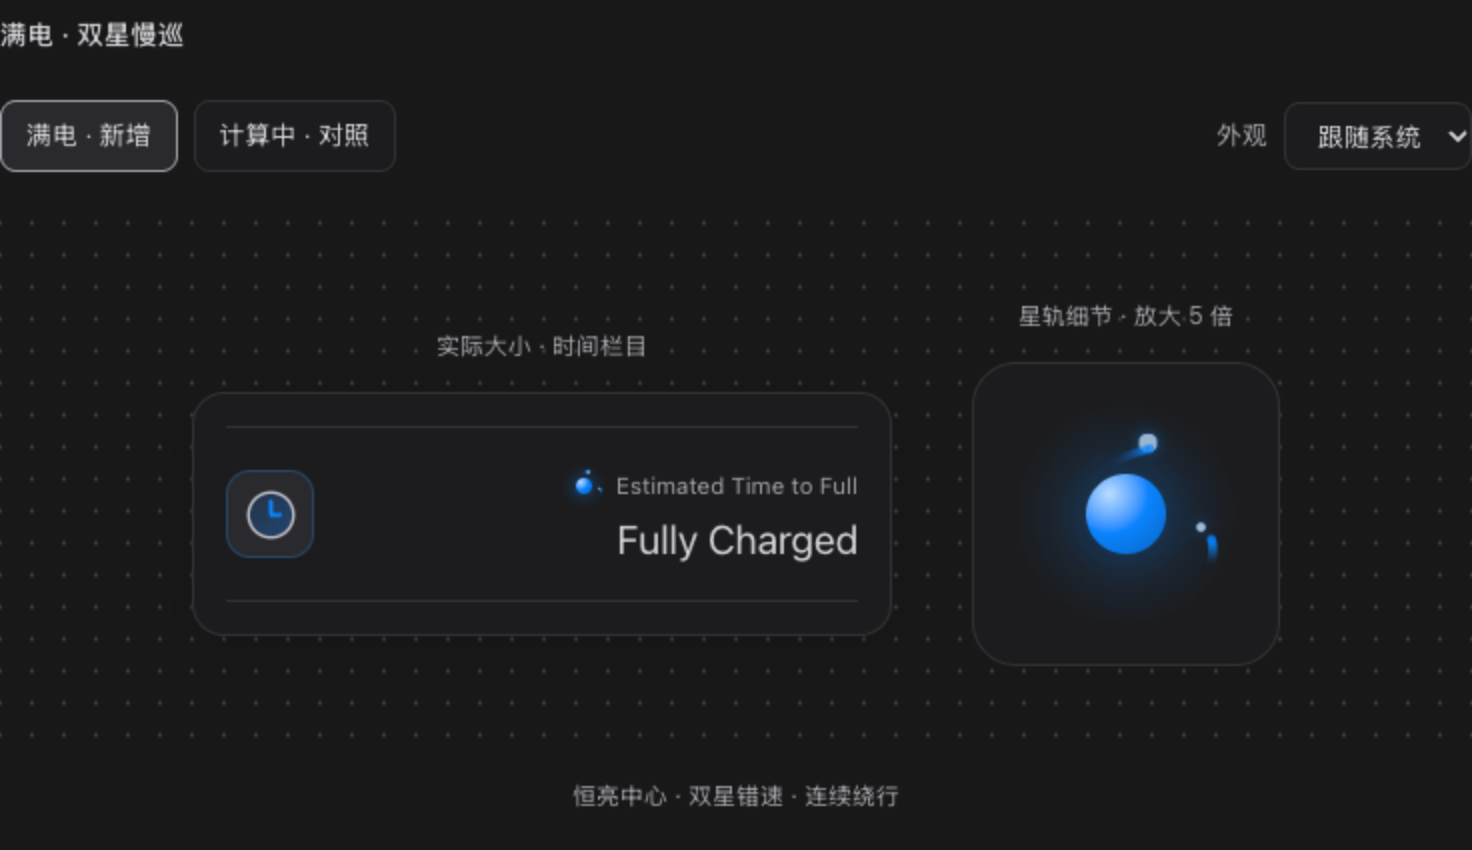
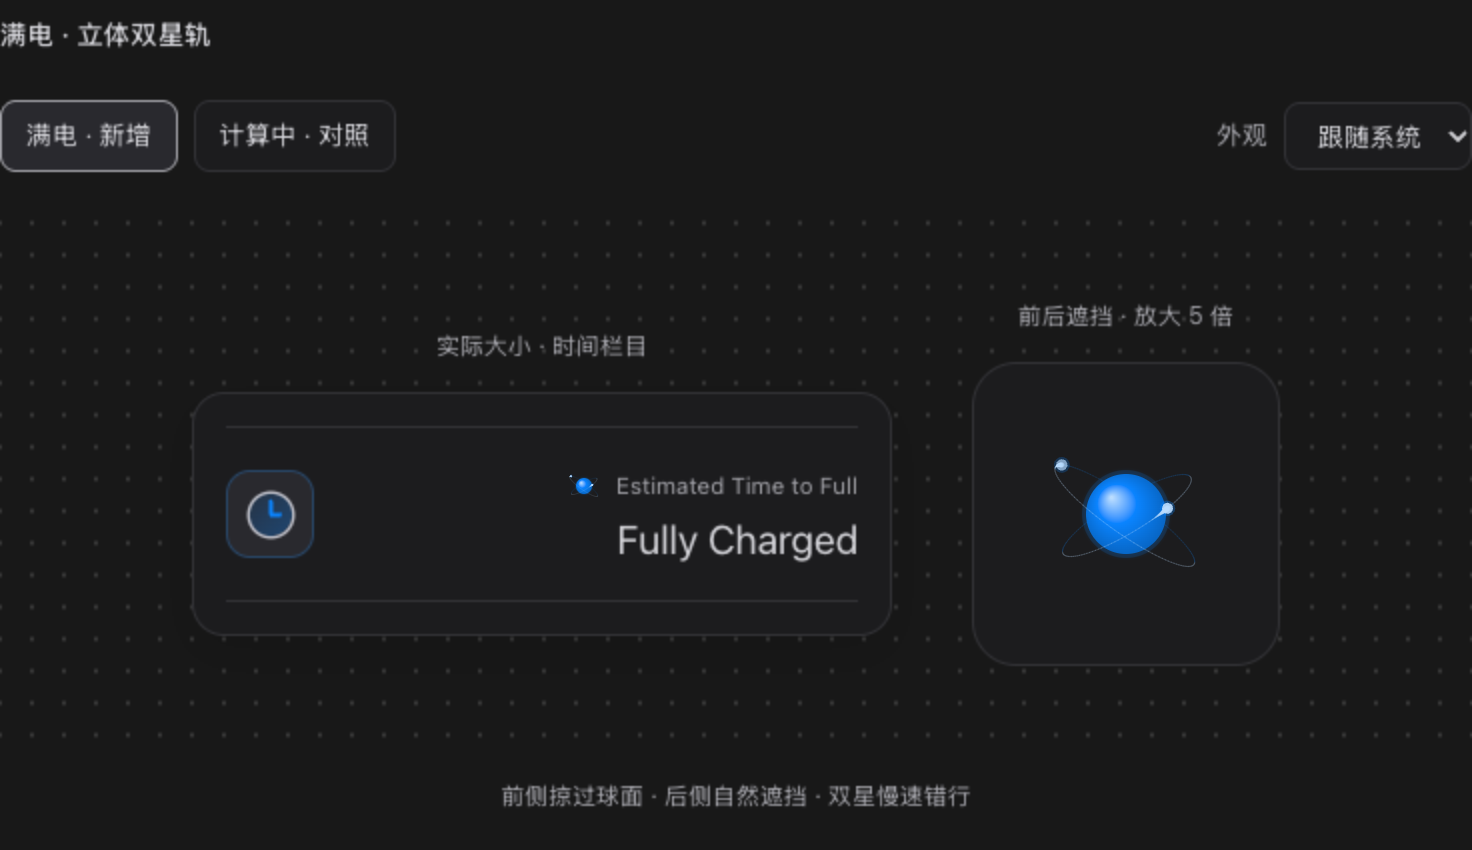
Correct full-charge preview with projected 3D orbits and sphere occlusion

diff --git a/design/battery-time-indicator/full-charge/full-charge-preview.html b/design/battery-time-indicator/full-charge/full-charge-preview.html
@@ -26,16 +26,18 @@
 #wattson-full-charge .fc-magnifier { display:grid; place-items:center; height:152px; background:var(--fc-surface); border:1px solid var(--fc-line); border-radius:22px; }
 #wattson-full-charge .fc-magnifier .fc-badge { transform:scale(5); }
 #wattson-full-charge .fc-badge { position:relative; display:inline-block; width:24px; height:24px; flex-shrink:0; isolation:isolate; }
-#wattson-full-charge .fc-halo { position:absolute; inset:1px; border-radius:50%; background:radial-gradient(circle,color-mix(in srgb,var(--fc-accent) 35%,transparent),color-mix(in srgb,var(--fc-accent) 8%,transparent) 45%,transparent 72%); z-index:0; }
-#wattson-full-charge .fc-planet { position:absolute; width:8px; height:8px; left:8px; top:8px; z-index:2; border-radius:50%; background:radial-gradient(circle at 29% 25%,var(--fc-bright),var(--fc-accent) 47%,var(--fc-deep)); }
-#wattson-full-charge .fc-particle { position:absolute; border-radius:50%; left:12px; top:12px; background:var(--fc-accent); pointer-events:none; }
-#wattson-full-charge .fc-particle[data-head] { background:var(--fc-bright); box-shadow:0 0 1.4px color-mix(in srgb,var(--fc-accent) 70%,transparent); }
+#wattson-full-charge .fc-canvas { display:block; width:24px; height:24px; }
+#wattson-full-charge .fc-color { position:absolute; width:0; height:0; overflow:hidden; }
+#wattson-full-charge .fc-color[data-color="accent"] { color:var(--fc-accent); }
+#wattson-full-charge .fc-color[data-color="bright"] { color:var(--fc-bright); }
+#wattson-full-charge .fc-color[data-color="deep"] { color:var(--fc-deep); }
 #wattson-full-charge .fc-status { font-size:12px; color:var(--fc-muted); text-align:center; margin-top:12px; min-height:36px; }
 @media(max-width:620px) { #wattson-full-charge .fc-stage { flex-direction:column; gap:26px; padding:24px 10px; } #wattson-full-charge .fc-appearance { margin-left:0; } #wattson-full-charge .fc-window { padding:12px; } #wattson-full-charge .fc-row { gap:8px; } }
 @media(pointer:coarse) { #wattson-full-charge button,#wattson-full-charge select { min-height:44px; } }
 </style>
 <div id="wattson-full-charge" data-state="full" data-palette="blue" aria-label="Wattson 满电双星轨设计稿">
-  <div class="fc-heading">满电 · 双星慢巡</div>
+  <div class="fc-heading">满电 · 立体双星轨</div>
+  <span class="fc-color" data-color="accent" aria-hidden="true"></span><span class="fc-color" data-color="bright" aria-hidden="true"></span><span class="fc-color" data-color="deep" aria-hidden="true"></span>
   <div class="fc-options">
     <button class="cursor-interaction" type="button" data-state="full" aria-pressed="true">满电 · 新增</button>
     <button class="cursor-interaction" type="button" data-state="calculating" aria-pressed="false">计算中 · 对照</button>
@@ -47,60 +49,88 @@
       <div class="fc-window"><div class="fc-row">
         <div class="fc-clock"><i data-lucide="clock-3" aria-hidden="true"></i></div>
         <div class="fc-copy">
-          <div class="fc-caption"><span class="fc-badge" aria-hidden="true"><span class="fc-halo"></span><span class="fc-planet"></span></span><span>Estimated Time to Full</span></div>
+          <div class="fc-caption"><span class="fc-badge" aria-hidden="true"><canvas class="fc-canvas"></canvas></span><span>Estimated Time to Full</span></div>
           <div class="fc-value">Fully Charged</div>
         </div>
       </div></div>
     </div>
-    <div class="fc-detail"><div class="fc-label">星轨细节 · 放大 5 倍</div><div class="fc-magnifier"><span class="fc-badge" role="img" aria-label="中心恒亮，左上和右下两颗星点沿错开的斜轨缓慢连续绕行"><span class="fc-halo"></span><span class="fc-planet"></span></span></div></div>
+    <div class="fc-detail"><div class="fc-label">前后遮挡 · 放大 5 倍</div><div class="fc-magnifier"><span class="fc-badge" role="img" aria-label="双星沿立体斜轨绕行，前侧经过球面，后侧被球体遮住"><canvas class="fc-canvas"></canvas></span></div></div>
   </div>
-  <div class="fc-status" aria-live="polite">恒亮中心 · 双星错速 · 连续绕行</div>
+  <div class="fc-status" aria-live="polite">前侧掠过球面 · 后侧自然遮挡 · 双星慢速错行</div>
 </div>
 <script>
 (() => {
   const root=document.getElementById('wattson-full-charge');
-  const ui={state:'full',appearance:'auto',palette:'blue',speed:1,drift:1};
+  const ui={state:'full',appearance:'auto',palette:'blue',speed:1,drift:1,ring:true};
   const reduced=matchMedia('(prefers-reduced-motion:reduce)');
-  const planets=[...root.querySelectorAll('.fc-planet')], halos=[...root.querySelectorAll('.fc-halo')];
-  const particles=[];
+  const scenes=[...root.querySelectorAll('.fc-canvas')].map(canvas=>({canvas,ctx:canvas.getContext('2d')}));
+  let colors={};
   let time=0,last=null,raf=0,inView=true;
-  root.querySelectorAll('.fc-badge').forEach(badge=>{
-    for(let orbit=0;orbit<2;orbit++) for(let i=0;i<12;i++) {
-      const node=document.createElement('span'); node.className='fc-particle';
-      if(i===0)node.dataset.head=String(orbit);
-      const diameter=i===0?(orbit===0?1.65:1.4):Math.max(.24,1.1-i*.075);
-      node.style.width=node.style.height=diameter+'px'; node.style.margin=(-diameter/2)+'px';
-      badge.appendChild(node);particles.push({node,orbit,i});
-    }
-  });
-  function position(t,orbit,lag){
+  function orbitAngle(t,orbit){
     const direction=orbit===0?1:-1,period=orbit===0?8:10.6,omega=2*Math.PI/period;
     const wave=orbit===0?.29:.21,offset=orbit===0?.4:2.1;
-    const phase=orbit===0?Math.PI+1.05:.23;
-    const angle=phase+direction*(omega*t+.06*ui.drift*omega/wave*(Math.sin(wave*t+offset)-Math.sin(offset))-lag);
-    const tilt=((orbit===0?-34:30)+2*ui.drift*Math.sin(t*.17+orbit*2.2))*Math.PI/180;
-    const radius=(orbit===0?10.1:9.0)*(1+.012*ui.drift*Math.sin(t*.23+orbit*1.7));
-    const x=radius*Math.cos(angle),y=(orbit===0?5.7:5.0)*Math.sin(angle);
-    return {x:x*Math.cos(tilt)-y*Math.sin(tilt),y:x*Math.sin(tilt)+y*Math.cos(tilt),depth:Math.sin(angle)};
+    const phase=orbit===0?Math.PI-.35:1.45;
+    return phase+direction*(omega*t+.06*ui.drift*omega/wave*(Math.sin(wave*t+offset)-Math.sin(offset)));
+  }
+  function project(t,orbit,angle=orbitAngle(t,orbit)){
+    const inclination=((orbit===0?78:76)+.8*ui.drift*Math.sin(t*.13+orbit))*Math.PI/180;
+    const roll=((orbit===0?35:-32)+1.4*ui.drift*Math.sin(t*.17+orbit*2.2))*Math.PI/180;
+    const radius=orbit===0?8.4:7.4;
+    const x=radius*Math.cos(angle),y=radius*Math.sin(angle)*Math.cos(inclination),z=radius*Math.sin(angle)*Math.sin(inclination);
+    const scale=70/(70-z);
+    return {x:(x*Math.cos(roll)-y*Math.sin(roll))*scale,y:(x*Math.sin(roll)+y*Math.cos(roll))*scale,z,scale};
+  }
+  function geometry(t){
+    const commands=[],full=ui.state==='full',cycle=((t%3.3)+3.3)%3.3;
+    const addLine=(a,b,width,alpha,color)=>{
+      if(a.z*b.z<0){
+        const f=-a.z/(b.z-a.z),mid={x:a.x+(b.x-a.x)*f,y:a.y+(b.y-a.y)*f,z:0,scale:a.scale+(b.scale-a.scale)*f};
+        addLine(a,mid,width,alpha,color);addLine(mid,b,width,alpha,color);return;
+      }
+      commands.push({type:'line',a,b,z:(a.z+b.z)/2,width,alpha,color});
+    };
+    for(let orbit=0;orbit<(full?2:1);orbit++){
+      if(full&&ui.ring){for(let i=0;i<128;i++){
+        const a=project(t,orbit,i/128*2*Math.PI),b=project(t,orbit,(i+1)/128*2*Math.PI);
+        addLine(a,b,.12,.2,a.z+b.z>=0?'bright':'accent');
+      }}
+      const alpha=full?1:reduced.matches||cycle>=2.8?0:Math.max(0,Math.min(1,cycle/.2,(2.8-cycle)/.25));
+      if(!alpha)continue;
+      const at=dt=>full?project(t-dt,orbit):project(t-dt,orbit,(cycle-dt)/2.8*2*Math.PI);
+      if(!reduced.matches){for(let i=28;i>0;i--){
+        const fraction=1-(i-.5)/28,a=at(i*.52/28),b=at((i-1)*.52/28);
+        addLine(a,b,(.07+.48*fraction*fraction)*(a.scale+b.scale)/2,alpha*.72*Math.pow(fraction,.8),'bright');
+      }}
+      const head=at(0);commands.push({type:'head',...head,radius:(orbit===0?.58:.5)*head.scale,alpha});
+    }
+    return commands.sort((a,b)=>a.z-b.z);
+  }
+  function paintCommand(ctx,c){
+    const depth=Math.max(0,Math.min(1,(c.z+9)/18));
+    ctx.globalAlpha=c.alpha*(.42+.58*depth);ctx.lineCap='round';
+    if(c.type==='line'){ctx.strokeStyle=colors[c.color];ctx.lineWidth=c.width;ctx.beginPath();ctx.moveTo(c.a.x,c.a.y);ctx.lineTo(c.b.x,c.b.y);ctx.stroke();}
+    else{
+      ctx.save();ctx.globalAlpha*=.19;ctx.fillStyle=colors.accent;ctx.shadowColor=colors.accent;ctx.shadowBlur=.6;
+      ctx.beginPath();ctx.arc(c.x,c.y,c.radius*1.4,0,Math.PI*2);ctx.fill();ctx.restore();
+      ctx.fillStyle=colors.bright;ctx.beginPath();ctx.arc(c.x,c.y,c.radius,0,Math.PI*2);ctx.fill();
+    }
   }
   function draw(){
-    const t=time*ui.speed,full=ui.state==='full',cycle=t%3.3;
-    const pulse=full||reduced.matches?1:.52+.48*Math.sin(Math.PI*Math.min(cycle/2.8,1))**2;
-    planets.forEach(n=>n.style.opacity=String(pulse));halos.forEach(n=>n.style.opacity=String(pulse));
-    particles.forEach(({node,orbit,i})=>{
-      let p,alpha=1;
-      if(full){p=position(reduced.matches?0:t,orbit,i*.038);}
-      else {
-        const angle=cycle/2.8*2*Math.PI-i*.07,x=9.6*Math.cos(angle),y=5.1*Math.sin(angle),tilt=-Math.PI/5;
-        p={x:x*Math.cos(tilt)-y*Math.sin(tilt),y:x*Math.sin(tilt)+y*Math.cos(tilt),depth:Math.sin(angle)};
-        alpha=orbit===0&&!reduced.matches&&cycle<2.8?Math.max(0,Math.min(1,cycle/.2,(2.8-cycle)/.25)):0;
-      }
-      const near=(p.depth+1)/2;
-      const dust=i>8?(.8+.2*Math.sin(t*.4+i+orbit)):1;
-      node.style.opacity=String(alpha*(i===0?.76+.24*near:.65*Math.pow(.76,i-1)*dust)*((reduced.matches&&i>0)?0:1));
-      node.style.transform=`translate(${p.x}px,${p.y}px) scale(${.88+.16*near})`;
-      node.style.zIndex=p.depth>=0?'3':'1';
-    });
+    const t=reduced.matches?0:time*ui.speed,commands=geometry(t),cycle=t%3.3;
+    const pulse=ui.state==='full'||reduced.matches?1:.52+.48*Math.sin(Math.PI*Math.min(cycle/2.8,1))**2;
+    for(const {canvas,ctx} of scenes){
+      const pixels=Math.ceil(canvas.getBoundingClientRect().width*Math.max(2,devicePixelRatio));
+      if(canvas.width!==pixels){canvas.width=canvas.height=pixels;}
+      ctx.setTransform(pixels/24,0,0,pixels/24,pixels/2,pixels/2);ctx.clearRect(-12,-12,24,24);
+      ctx.globalAlpha=.12*pulse;ctx.fillStyle=colors.accent;ctx.shadowColor=colors.accent;ctx.shadowBlur=3;
+      ctx.beginPath();ctx.arc(0,0,4.4,0,Math.PI*2);ctx.fill();ctx.shadowBlur=0;
+      commands.filter(c=>c.z<0).forEach(c=>paintCommand(ctx,c));
+      ctx.globalAlpha=1;
+      const sphere=ctx.createRadialGradient(-1.45,-1.65,.1,-.2,-.15,4.4);
+      sphere.addColorStop(0,colors.bright);sphere.addColorStop(.43,colors.accent);sphere.addColorStop(1,colors.deep);
+      ctx.fillStyle=sphere;ctx.filter=`brightness(${pulse})`;ctx.beginPath();ctx.arc(0,0,4,0,Math.PI*2);ctx.fill();ctx.filter='none';
+      commands.filter(c=>c.z>=0).forEach(c=>paintCommand(ctx,c));ctx.globalAlpha=1;
+    }
   }
   function tick(now){raf=0;if(last!==null)time+=(now-last)/1000;last=now;draw();schedule();}
   function schedule(){if(!raf&&!document.hidden&&inView&&!reduced.matches)raf=requestAnimationFrame(tick);}
@@ -110,20 +140,22 @@
     root.querySelector('select').value=ui.appearance;
     root.querySelectorAll('button[data-state]').forEach(b=>b.setAttribute('aria-pressed',String(b.dataset.state===ui.state)));
     root.querySelector('.fc-value').textContent=ui.state==='full'?'Fully Charged':'Calculating…';
-    root.querySelector('.fc-status').textContent=reduced.matches?'减少动态效果 · 静态星点':ui.state==='full'?'恒亮中心 · 双星错速 · 连续绕行':'单星绕行 · 同步呼吸 · 圈末停 0.5 秒';
-    root.querySelector('.fc-magnifier .fc-badge').setAttribute('aria-label',ui.state==='full'?'中心恒亮，左上和右下两颗星点沿错开的斜轨缓慢连续绕行':'单颗星点与中心呼吸同步，绕行一圈后停半秒');
+    root.querySelector('.fc-status').textContent=reduced.matches?'减少动态效果 · 静态星轨':ui.state==='full'?'前侧掠过球面 · 后侧自然遮挡 · 双星慢速错行':'单星绕行 · 同步呼吸 · 圈末停 0.5 秒';
+    root.querySelector('.fc-magnifier .fc-badge').setAttribute('aria-label',ui.state==='full'?'双星沿立体斜轨绕行，前侧经过球面，后侧被球体遮住':'单颗星点与中心呼吸同步，绕行一圈后停半秒');
+    colors=Object.fromEntries([...root.querySelectorAll('.fc-color')].map(node=>[node.dataset.color,getComputedStyle(node).color]));
     draw();schedule();
   }
-  function save(){window.openai?.setWidgetState?.({modelContent:{design:'满电双星慢巡',state:ui.state,palette:ui.palette,speed:ui.speed,drift:ui.drift},privateContent:{...ui}}).catch(()=>{});}
-  function restore(saved){const s=saved?.privateContent;if(s){if(['full','calculating'].includes(s.state))ui.state=s.state;if(['auto','light','dark'].includes(s.appearance))ui.appearance=s.appearance;if(['blue','green','amber','violet','neutral'].includes(s.palette))ui.palette=s.palette;if(typeof s.speed==='number')ui.speed=Math.min(1.3,Math.max(.7,s.speed));if(typeof s.drift==='number')ui.drift=Math.min(1.5,Math.max(0,s.drift));}render();}
+  function save(){window.openai?.setWidgetState?.({modelContent:{design:'满电立体双星轨',revision:2,state:ui.state,palette:ui.palette,speed:ui.speed,drift:ui.drift},privateContent:{...ui,revision:2}}).catch(()=>{});}
+  function restore(saved){const s=saved?.privateContent;if(s){if(s.revision===2&&['full','calculating'].includes(s.state))ui.state=s.state;if(['auto','light','dark'].includes(s.appearance))ui.appearance=s.appearance;if(['blue','green','amber','violet','neutral'].includes(s.palette))ui.palette=s.palette;if(typeof s.speed==='number')ui.speed=Math.min(1.3,Math.max(.7,s.speed));if(typeof s.drift==='number')ui.drift=Math.min(1.5,Math.max(0,s.drift));if(s.revision===2&&typeof s.ring==='boolean')ui.ring=s.ring;}render();}
   root.querySelectorAll('button[data-state]').forEach(b=>b.addEventListener('click',()=>{ui.state=b.dataset.state;time=0;last=null;render();save();}));
   root.querySelector('select').addEventListener('change',event=>{ui.appearance=event.target.value;render();save();});
   document.addEventListener('visibilitychange',visibility);
   reduced.addEventListener('change',()=>{visibility();render();});
+  matchMedia('(prefers-color-scheme:dark)').addEventListener('change',render);
   const observer=new IntersectionObserver(entries=>{inView=entries.some(e=>e.isIntersecting);visibility();});observer.observe(root);
   window.addEventListener('pagehide',()=>{cancelAnimationFrame(raf);observer.disconnect();});
   window.addEventListener('openai:set_globals',event=>{if(event.detail?.globals?.widgetState)restore(event.detail.globals.widgetState);});
   restore(window.openai?.widgetState);
-  if(globalThis.Tweak){const tweak=new Tweak({container:root,onChange:()=>{render();save();}});tweak.addSelect(ui,'palette',{label:'仪表配色预览',options:[{label:'蓝色',value:'blue'},{label:'绿色',value:'green'},{label:'琥珀',value:'amber'},{label:'紫色',value:'violet'},{label:'银灰',value:'neutral'}]});tweak.addSlider(ui,'speed',{label:'绕行速度',min:.7,max:1.3,step:.1});tweak.addSlider(ui,'drift',{label:'自然错落',min:0,max:1.5,step:.1});}
+  if(globalThis.Tweak){const tweak=new Tweak({container:root,onChange:()=>{render();save();}});tweak.addSelect(ui,'palette',{label:'仪表配色预览',options:[{label:'蓝色',value:'blue'},{label:'绿色',value:'green'},{label:'琥珀',value:'amber'},{label:'紫色',value:'violet'},{label:'银灰',value:'neutral'}]});tweak.addSlider(ui,'speed',{label:'绕行速度',min:.7,max:1.3,step:.1});tweak.addSlider(ui,'drift',{label:'自然错落',min:0,max:1.5,step:.1});tweak.addToggle(ui,'ring',{label:'微光轨道线'});}
 })();
 </script>

diff --git a/design/battery-time-indicator/full-charge/README.md b/design/battery-time-indicator/full-charge/README.md
@@ -1,27 +1,41 @@
-# Fully Charged — double-orbit design proposal
+# Fully Charged — 3D double-orbit design proposal
 
 2026-10-31 design preview requested by the user. This is a proposal awaiting
 review: no production App code, installed payload, release, or mail was changed.
 The previously selected placement beside the time caption is retained.
 
-The central 8-point planet remains steadily lit in the instrument gradient.
-Two smaller stars begin moving immediately and continue without a lap pause.
-Their inclined elliptical paths use opposite directions, nominal periods of
-8 and 10.6 seconds, and starting positions toward upper left and lower right.
-The orbit radii differ, with base inclinations of −34° and +30°.
+The initial draft was rejected because its projected ellipses remained outside
+the sphere, so the front/back layering did not produce visible occlusion. Its
+separate tail dots also gave the stars an irregular appearance.
 
-Smooth speed modulation is limited to ±6%, inclination drift to ±2°, and
-radius drift to ±1.2% at the default setting. There is no random frame jitter.
-Short tapering tails and faint dust follow the same palette. Front/back depth
-changes star brightness and layering while the central light stays constant.
+Revision 2 uses actual 3D circular orbit coordinates projected onto a 2D canvas.
+The opaque central sphere has radius 4 points. The two orbit radii are 8.4 and
+7.4 points, inclined 78° and 76° to the screen, then rolled +35° and −32°.
+Perspective uses camera distance 70. Both projected paths cross inside the
+sphere silhouette: the near side passes in front and the far side is occluded.
+The stars remain outside the solid sphere in 3D.
 
-The adjacent comparison retains the existing calculating treatment: one star,
-one breath per 2.8-second lap, then a 0.5-second pause. Full charge is explicitly
+Every trail segment has its own depth; segments crossing z=0 are split there.
+All geometry is depth-sorted, with the opaque shaded sphere drawn between back
+and front geometry. This also masks the rear star's glow. Head position and
+diameter use the same perspective scale, retaining a circular bright core.
+Continuous tapering trails sample the actual historical orbit at t−δ, including
+its smooth drift, instead of moving a disconnected collection of tail dots.
+Subtle complete orbit lines clarify depth and can be hidden in design controls.
+
+Both stars start immediately and loop without pauses, at nominal periods of
+8 and 10.6 seconds in opposite directions. Smooth speed modulation is ±6%,
+inclination drift ±0.8° and roll drift ±1.4° at the default setting. There is
+no random jitter. Central lighting remains steady and follows the theme.
+
+The adjacent comparison preserves the calculating rhythm: one star, one breath
+per 2.8-second lap, then a 0.5-second pause, using the preview's revised renderer.
+Full charge is explicitly
 labelled “Fully Charged”; its motion expresses a stable power state, not a time
 estimate source or increased prediction accuracy.
 
 The preview follows system appearance, supports manual light/dark selection,
-and exposes optional palette, speed and drift adjustments through the design
+and exposes optional palette, speed, drift and orbit-line adjustments through the design
 controls. Blue is the initial plugged-idle example, not a fixed palette rule.
 Reduce Motion freezes both full-charge stars. Animation pauses offscreen or
 when the document is hidden.
@@ -29,6 +43,11 @@ when the document is hidden.
 `full-charge-preview.html` is the interactive source. The four PNGs are browser
 design previews, not running-App screenshots. `preview-verification.json`
 records 736- and 320-point light/dark rendering without horizontal overflow,
-both moving stars, state/appearance controls, static Reduce Motion, and no
-JavaScript errors. An isolated browser profile and wrapper were managed by
-the shared cleanup owner; the browser closed and scratch was removed.
+front/back crossings for both orbits, split and sorted depth segments, an opaque
+sphere, state/appearance controls, static Reduce Motion, and no JavaScript errors.
+Six `orbit-depth-*.png` samples show different moments of the revised orbit.
+Canvas backing resolution accounts for enlargement, with at least two pixels
+per displayed point. A scratch-only inspection hook exposed the original
+geometry/draw functions without changing their behavior. The isolated browser
+profile and wrapper were managed by the shared cleanup owner; the browser
+closed and scratch was removed.
